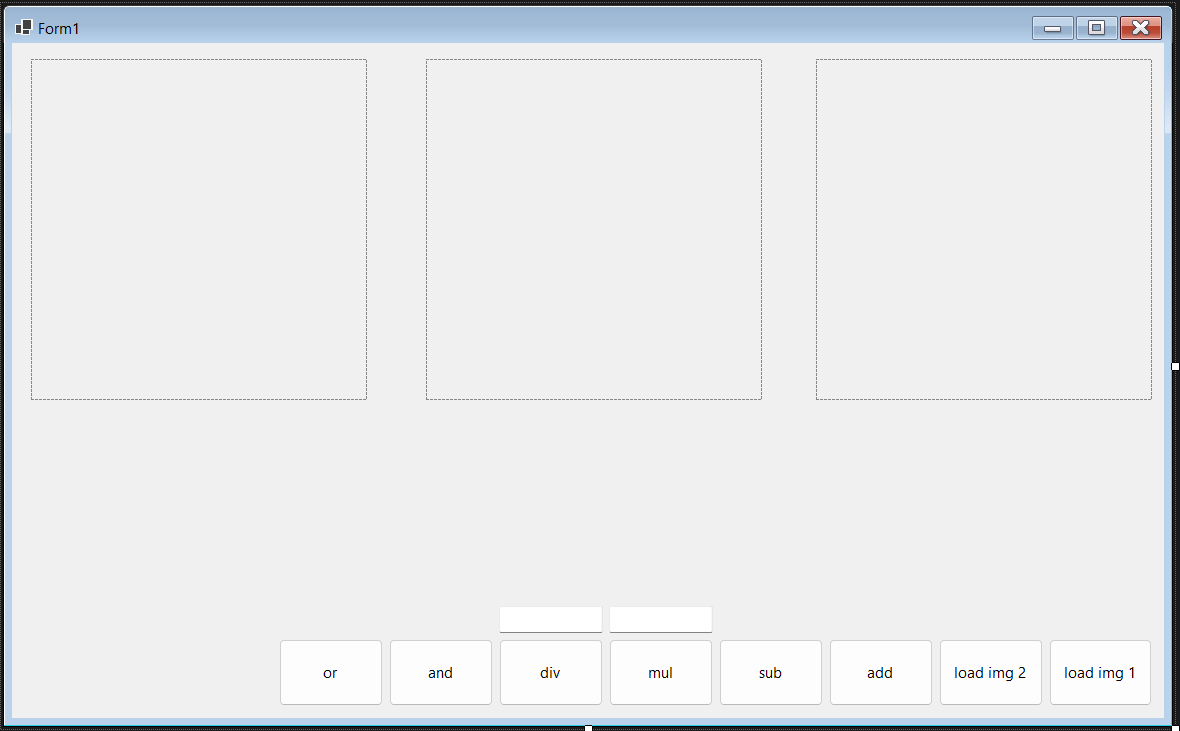
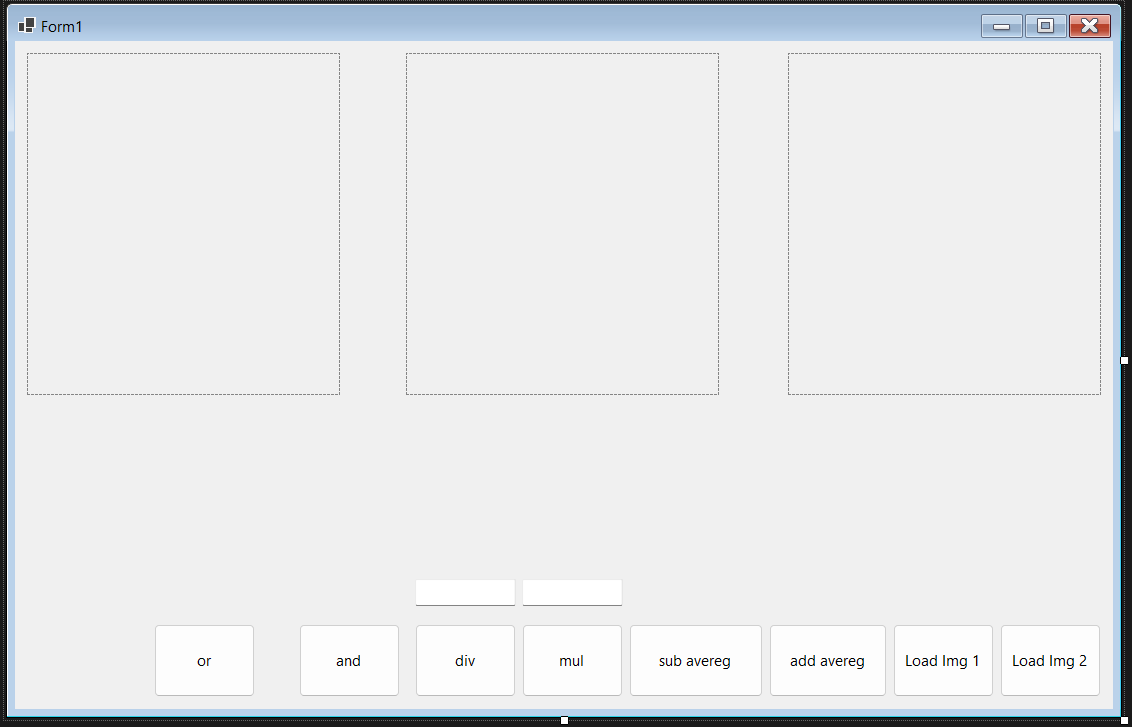
Image Process

diff --git a/image process.md b/image process.md
@@ -513,3 +513,91 @@ End Class
 ```
 
 ---
+
+## 6- add and sub value on image
+
+---
+![load_img](img/add.png)
+
+``` vbnet
+Imports System.Windows.Forms.VisualStyles.VisualStyleElement
+
+Public Class Form1
+    Public load_img As New OpenFileDialog
+    Public x As Integer, y As Integer, i As Integer, j As Integer
+
+    Private Sub sub1_Click(sender As Object, e As EventArgs) Handles sub1.Click
+        Dim pixel As New Color
+        Dim img1 As New Bitmap(PictureBox1.Image)
+        Dim gray_img As New Bitmap(PictureBox1.Width, PictureBox1.Height)
+
+        For Me.i = 0 To x - 1
+            For Me.j = 0 To y - 1
+                pixel = img1.GetPixel(i, j)
+                r = pixel.R : g = pixel.G : b = pixel.B
+
+                r = r - Val(TextBox1.Text)
+                If r < 0 Then r = 0
+
+                g = g - Val(TextBox1.Text)
+                If g < 0 Then g = 0
+
+                b = b - Val(TextBox1.Text)
+                If b < 0 Then b = 0
+
+
+                gray_img.SetPixel(i, j, Color.FromArgb(r, g, b))
+
+
+            Next
+        Next
+
+        PictureBox3.Image = gray_img
+    End Sub
+
+    Private Sub add1_Click(sender As Object, e As EventArgs) Handles add1.Click
+        Dim pixel As New Color
+        Dim img1 As New Bitmap(PictureBox1.Image)
+        Dim gray_img As New Bitmap(PictureBox1.Width, PictureBox1.Height)
+
+        For Me.i = 0 To x - 1
+            For Me.j = 0 To y - 1
+                pixel = img1.GetPixel(i, j)
+                r = pixel.R : g = pixel.G : b = pixel.B
+
+                r = r + Val(TextBox1.Text)
+                If r > 255 Then r = 255
+
+                g = g + Val(TextBox1.Text)
+                If g > 255 Then g = 255
+
+                b = b + Val(TextBox1.Text)
+                If b > 255 Then b = 255
+
+
+                gray_img.SetPixel(i, j, Color.FromArgb(r, g, b))
+
+
+            Next
+        Next
+
+        PictureBox2.Image = gray_img
+    End Sub
+
+    Public r As Integer, g As Integer, b As Integer, p As Integer
+
+
+    Private Sub load_img1_Click(sender As Object, e As EventArgs) Handles load_img1.Click
+        If load_img.ShowDialog() = Windows.Forms.DialogResult.OK Then
+            PictureBox1.Load(load_img.FileName)
+
+        End If
+        x = PictureBox1.Width
+        y = PictureBox1.Height
+
+    End Sub
+End Class
+
+```
+
+---
